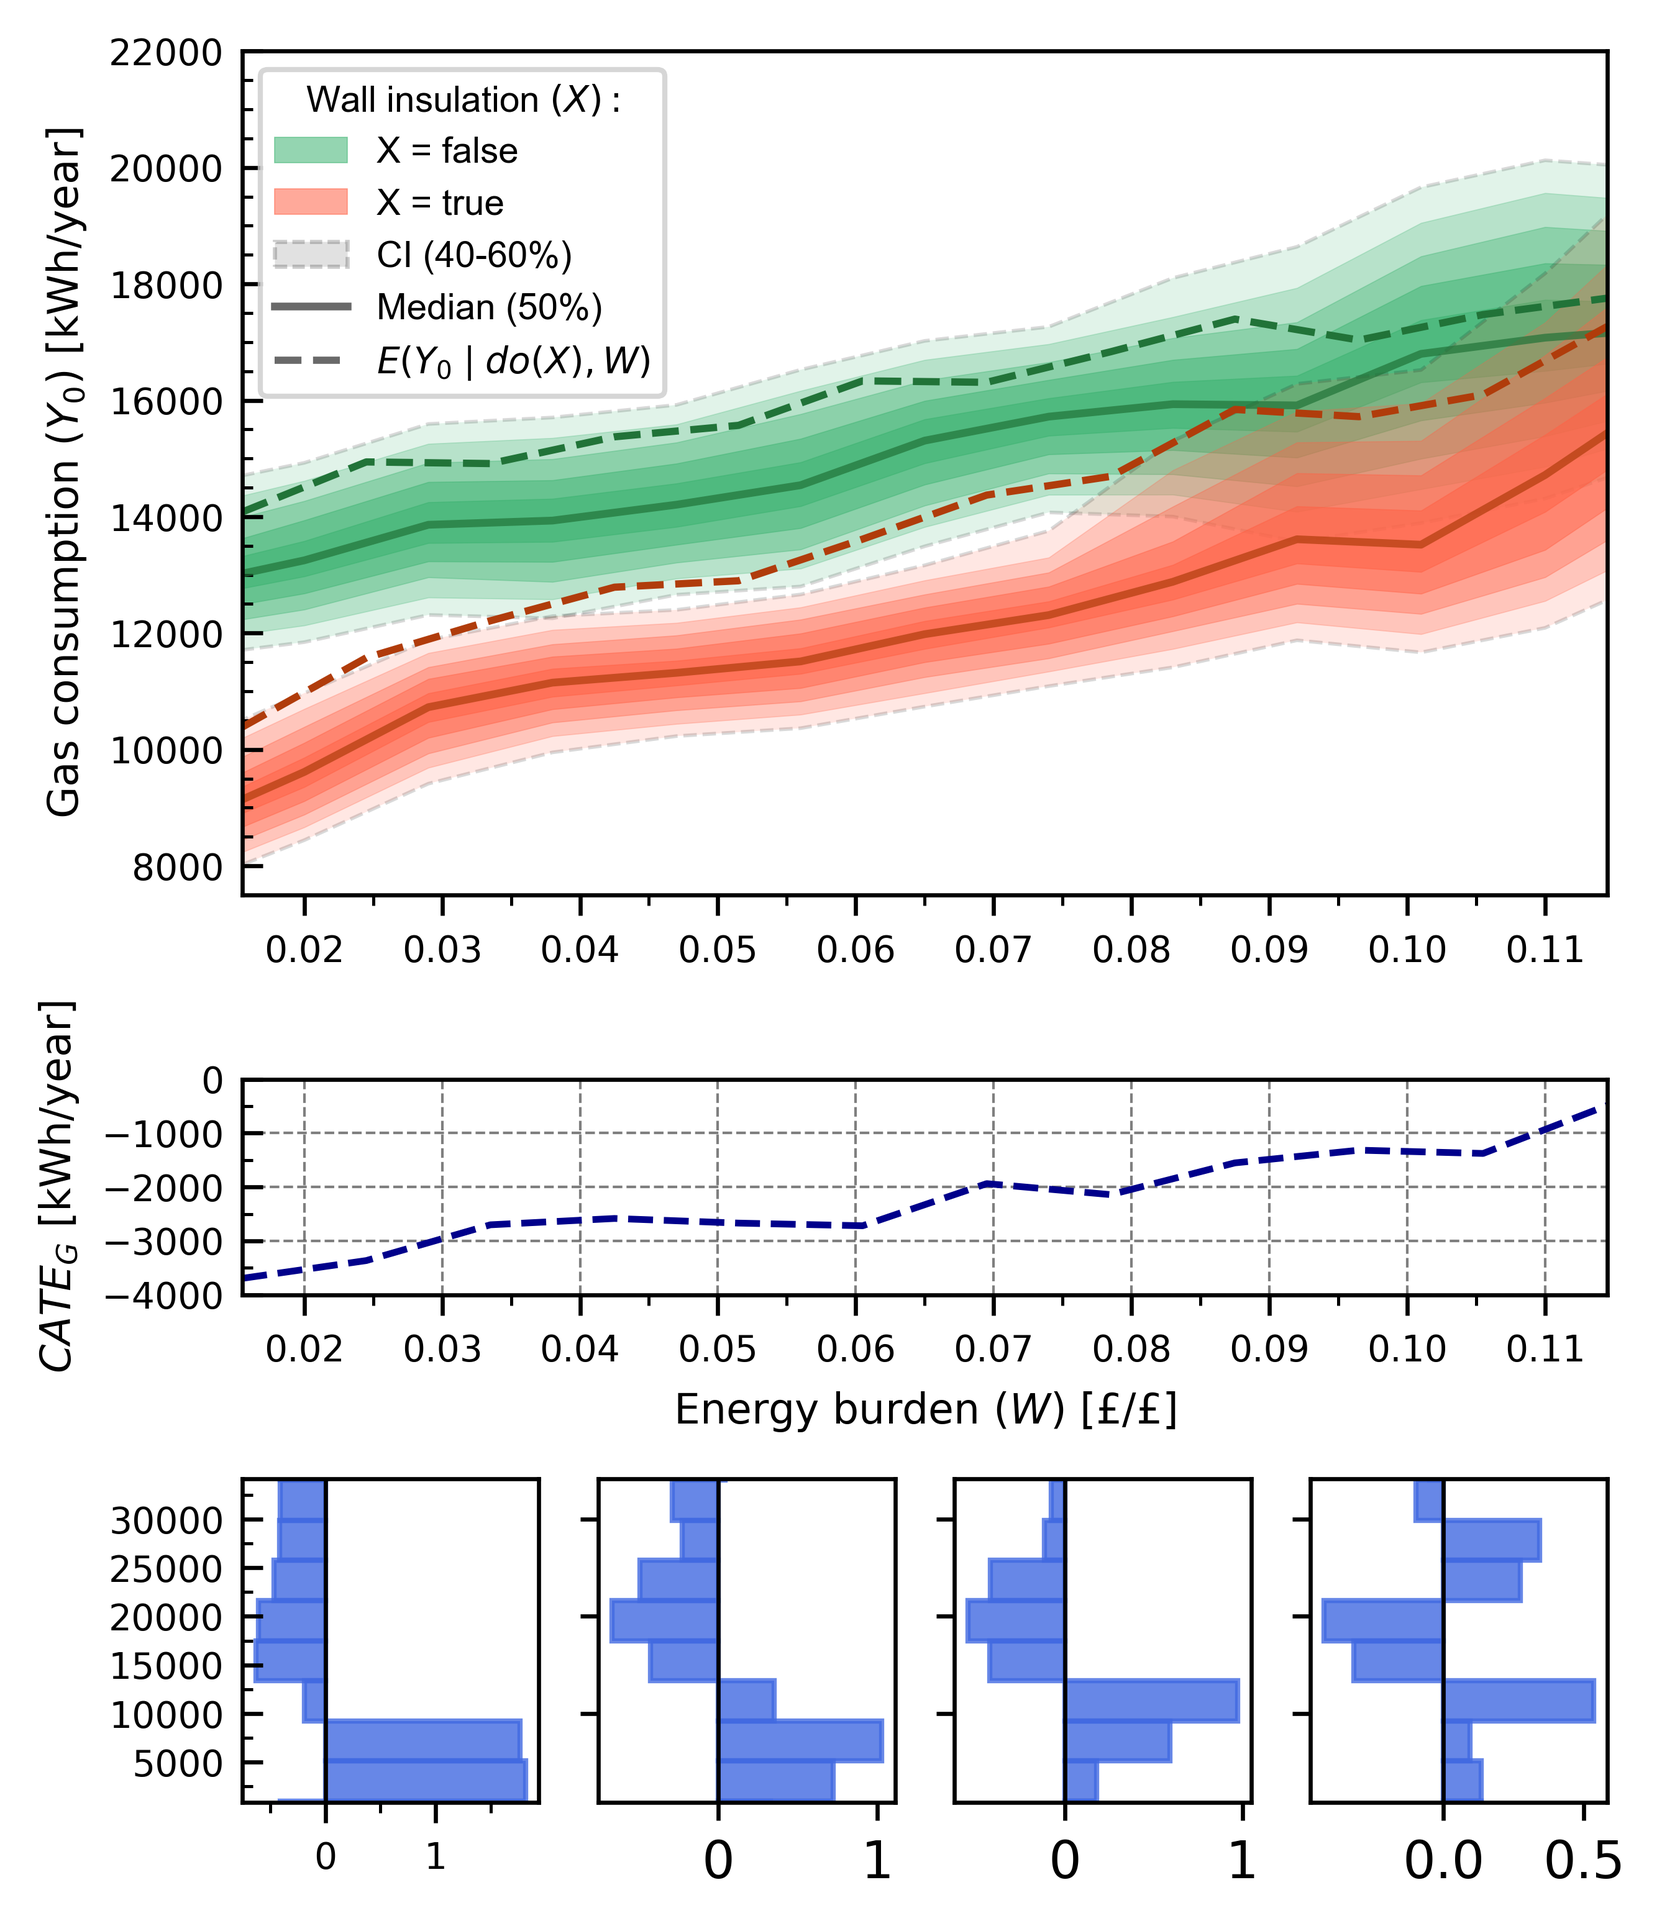
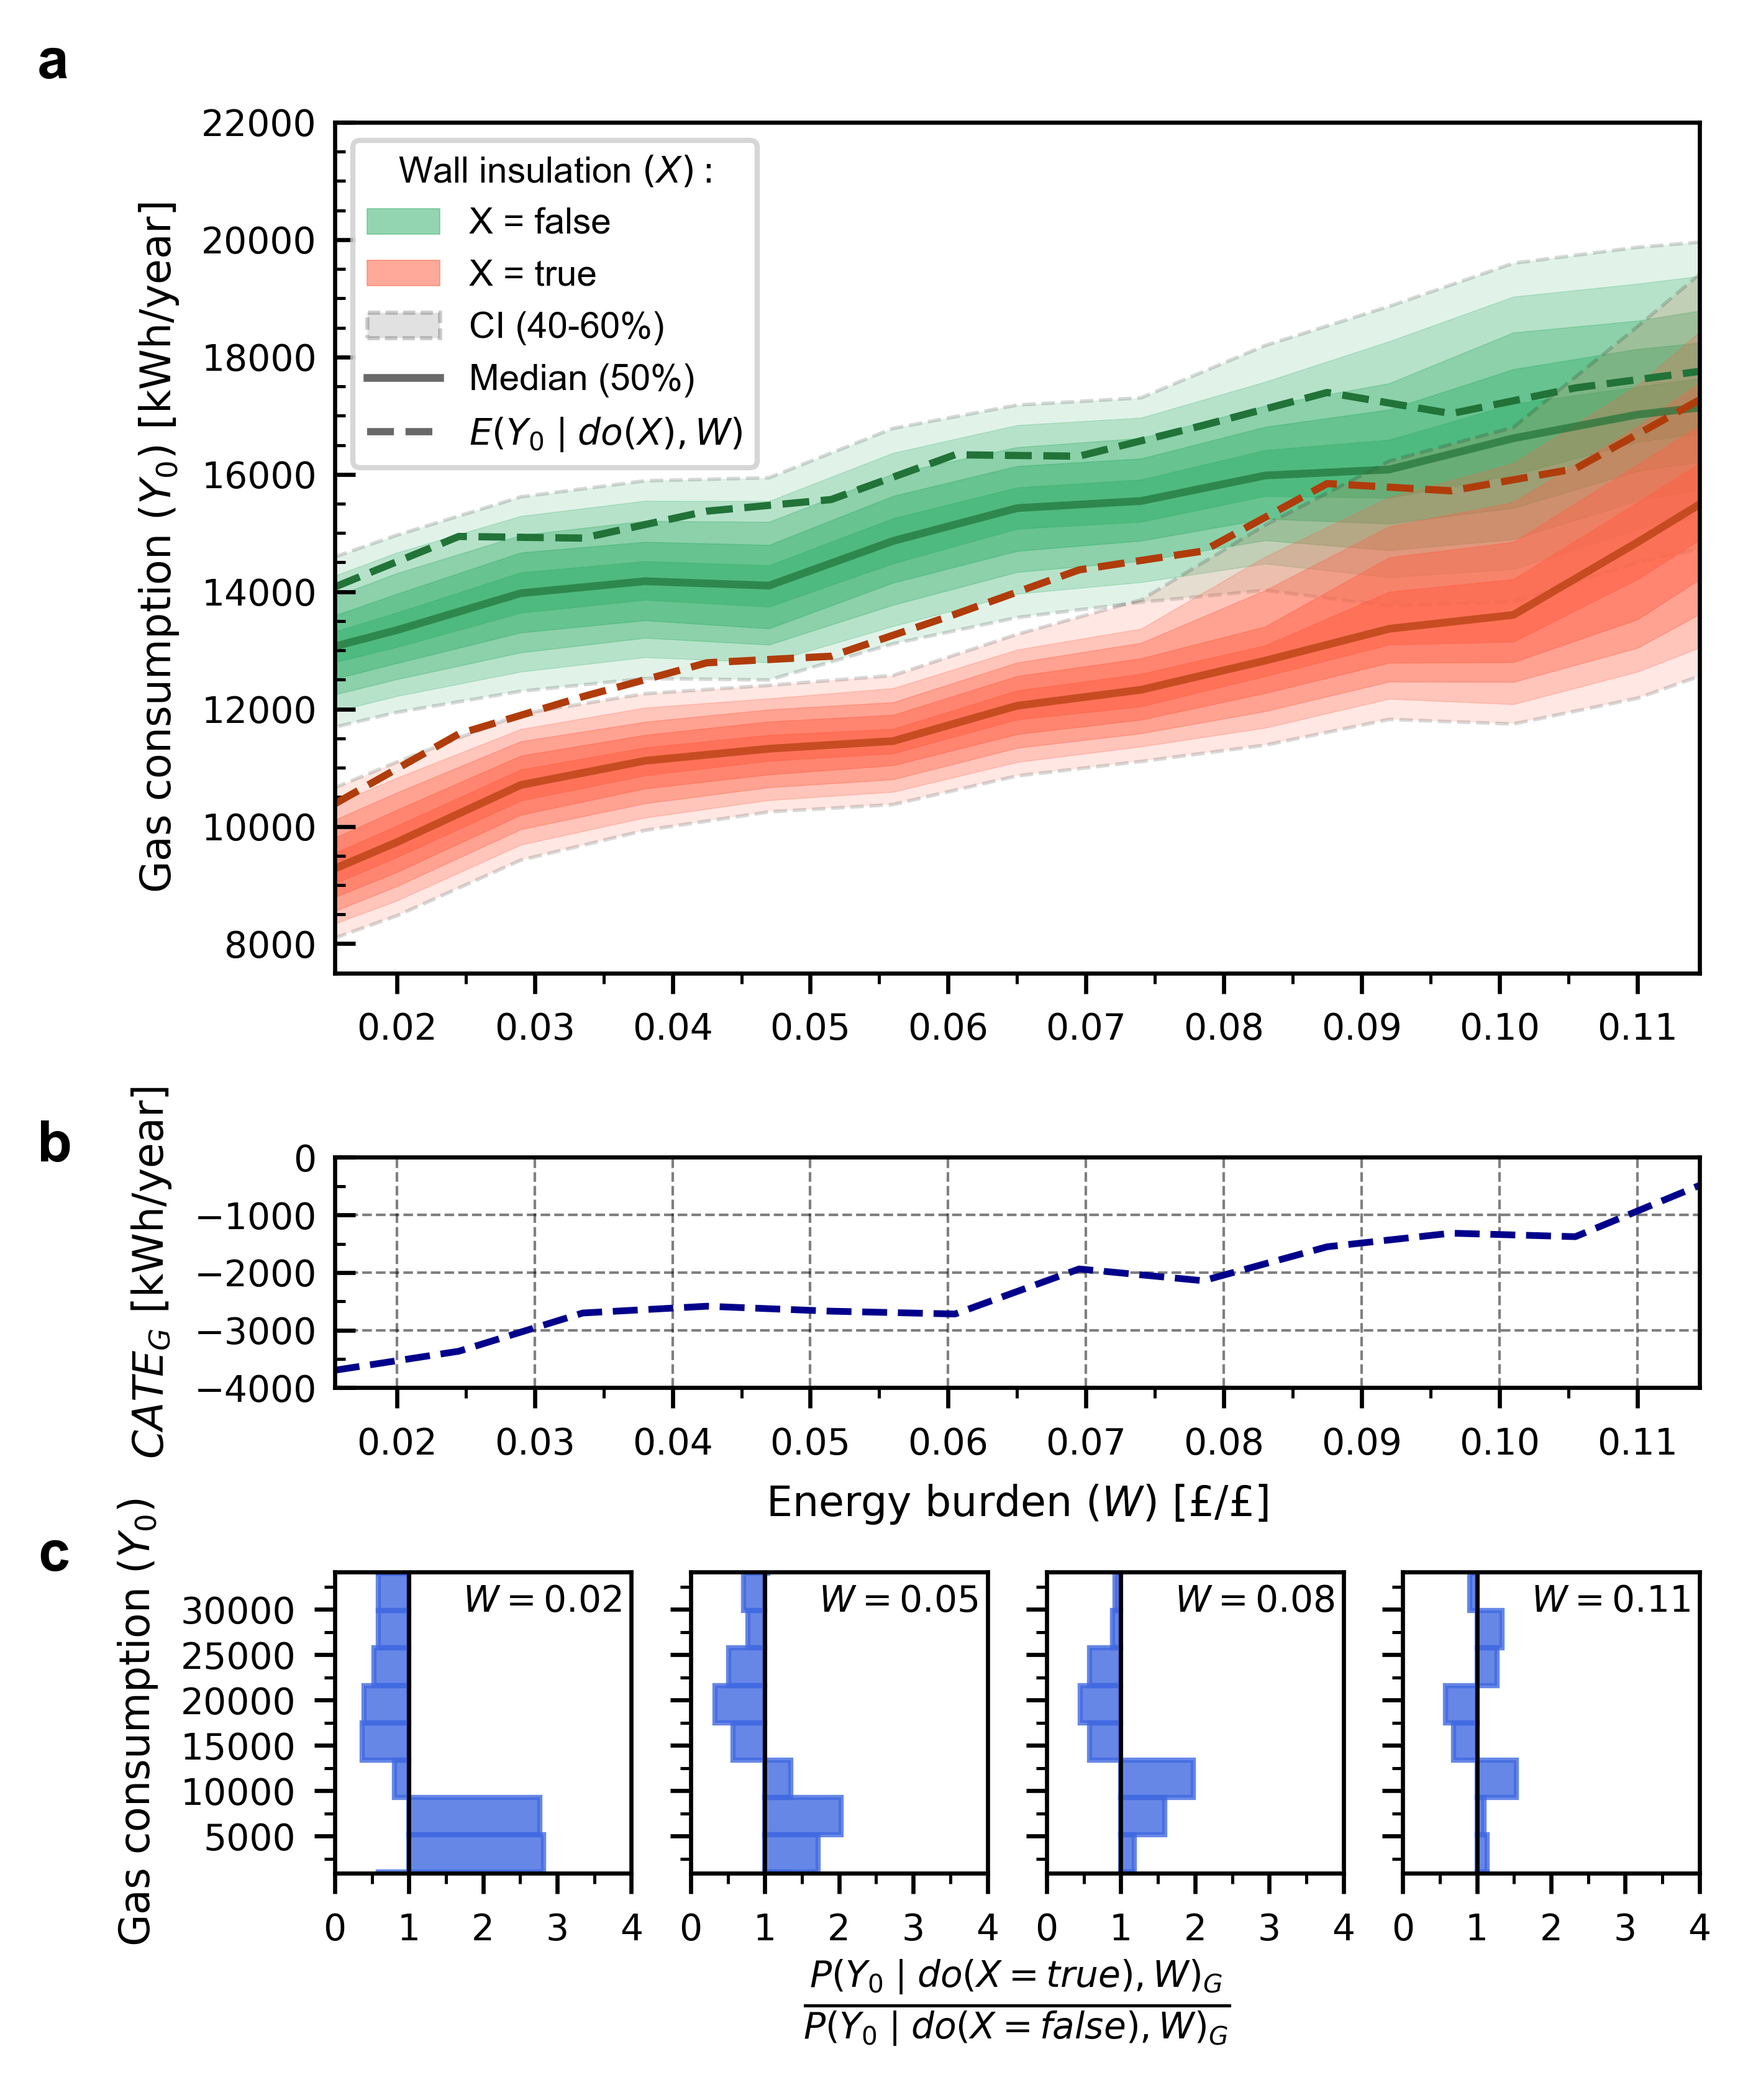
nc

Changed region(s): [[0.0, 0.5263, 0.9929, 0.9906], [0.031, 0.031, 0.9929, 0.4953], [0.0931, 0.0, 0.1241, 0.031]]

diff --git a/Plotter.py b/Plotter.py
@@ -129,7 +129,7 @@ class Plotter():
         samples_df, percentiles, means = self._generate_points_for_CATE(w_values=w_values, list_distribs_doX_given_W=list_distribs_doXx_1)
 
         fig = plt.figure(figsize=(width_cm/2.54, height_cm/2.54))
-        gs = gridspec.GridSpec(3, 4, height_ratios=[4.7, 1.2, 1.8], hspace=0.4)
+        gs = gridspec.GridSpec(3, 4, height_ratios=[4.8, 1.3, 1.7], hspace=0.4)
         ax1 = fig.add_subplot(gs[0, :])
         ax2 = fig.add_subplot(gs[1, :])
         ax_bottom_1 = fig.add_subplot(gs[2, 0])
@@ -258,43 +258,62 @@ class Plotter():
         ax_bottom_3.set_ylim(875, 35000 - 875)
         ax_bottom_4.set_ylim(875, 35000 - 875)
 
-        ax_bottom_1.xaxis.set_major_locator(plt.MultipleLocator(1))
-        ax_bottom_1.xaxis.set_minor_locator(plt.MultipleLocator(0.5))
-        ax_bottom_1.yaxis.set_major_locator(plt.MultipleLocator(5000))
-        ax_bottom_1.yaxis.set_minor_locator(plt.MultipleLocator(2500))
+        plots = [ax_bottom_1, ax_bottom_2, ax_bottom_3, ax_bottom_4]
+        for pl in plots:
+            pl.xaxis.set_major_locator(plt.MultipleLocator(1.))
+            pl.xaxis.set_minor_locator(plt.MultipleLocator(0.5))
+            pl.yaxis.set_major_locator(plt.MultipleLocator(5000))
+            pl.yaxis.set_minor_locator(plt.MultipleLocator(2500))
 
-        ax_bottom_1.tick_params(axis='x', which='major', direction='out', length=4, labelsize=7)
+            pl.tick_params(axis='y', which='major', direction='out', length=4, labelsize=7)
+            pl.tick_params(axis='y', which='minor', direction='out', length=2)
+            pl.tick_params(axis='x', which='major', direction='out', length=4, labelsize=7)
+            pl.tick_params(axis='x', which='minor', direction='out', length=2)
 
-        ax_bottom_1.tick_params(axis='y', which='major', direction='out', length=4, labelsize=7)
-        ax_bottom_1.tick_params(axis='y', which='minor', direction='in', length=0)
-        ax_bottom_2.tick_params(axis='y', which='major', direction='out', length=4, labelsize=7)
-        ax_bottom_2.tick_params(axis='y', which='minor', direction='in', length=0)
-        ax_bottom_3.tick_params(axis='y', which='major', direction='out', length=4, labelsize=7)
-        ax_bottom_3.tick_params(axis='y', which='minor', direction='out', length=0)
-        ax_bottom_4.tick_params(axis='y', which='major', direction='in', length=4, labelsize=7)
-        ax_bottom_4.tick_params(axis='y', which='minor', direction='out', length=0)
+            pl.set_xlim(-1, 2)
 
-        #ax_bottom_1.set_xticks([-1, 0., 1., 2.]) 
+            pl.set_xticks([-1., 0., 1., 2., 3.]) 
+            #pl.set_xticklabels(['0', '1', '2', '3'])
+            xticks = pl.get_xticks()
+            pl.set_xticklabels([str(int(tick + 1)) for tick in xticks])
 
+            if pl != ax_bottom_1: 
+                pl.set_yticklabels([])
+
+        #ax_bottom_1.set_xticks([1, 0., 1., 2.]) 
+        #ax_bottom_1..set_xticklabels([-1, 0., 1., 2.]) 
+        #ax2.set_xticks([0., 0.01, 0.02, 0.03, 0.04, 0.05, 0.06, 0.07, 0.08, 0.09, 0.10, 0.11]) 
+        #ax2.set_xticklabels(['0.00', '0.01', '0.02', '0.03', '0.04', '0.05', '0.06', '0.07', '0.08', '0.09', '0.10', '0.11']) 
+        '''
         # Set new x labels shifted by +1
         xticks = ax_bottom_1.get_yticks()
-        #ax_bottom_1.set_xticklabels([str(int(tick + 1)) for tick in xticks])
+        ax_bottom_1.set_xticklabels([str(int(tick + 1)) for tick in xticks])
         xticks = ax_bottom_2.get_yticks()
-        #ax_bottom_2.set_xticklabels([str(int(tick + 1)) for tick in xticks])
+        ax_bottom_2.set_xticklabels([str(int(tick + 1)) for tick in xticks])
         xticks = ax_bottom_3.get_yticks()
-        #ax_bottom_3.set_xticklabels([str(int(tick + 1)) for tick in xticks])
+        ax_bottom_3.set_xticklabels([str(int(tick + 1)) for tick in xticks])
         xticks = ax_bottom_4.get_yticks()
-        #ax_bottom_4.set_xticklabels([str(int(tick + 1)) for tick in xticks])
-
+        ax_bottom_4.set_xticklabels([str(int(tick + 1)) for tick in xticks])
+        
         ax_bottom_2.set_yticklabels([]) 
         ax_bottom_3.set_yticklabels([])
         ax_bottom_4.set_yticklabels([])
-
+        '''
         
+        ax_bottom_1.set_ylabel(r'Gas consumption $(Y_0)$', fontsize=8)
 
-
-
+        ax_bottom_1.text(2.3, -.43, r'$\frac{P(Y_0 \mid do(X=true), W)_{G}}{P(Y_0 \mid do(X=false), W)_{G}}$', transform=ax_bottom_1.transAxes, fontsize=10, va='center', ha='center')
+        
+        ax_bottom_1.text(0.7, 0.9, r'$W=0.02$', transform=ax_bottom_1.transAxes, fontsize=7, va='center', ha='center')
+        ax_bottom_2.text(0.7, 0.9, r'$W=0.05$', transform=ax_bottom_2.transAxes, fontsize=7, va='center', ha='center')
+        ax_bottom_3.text(0.7, 0.9, r'$W=0.08$', transform=ax_bottom_3.transAxes, fontsize=7, va='center', ha='center')
+        ax_bottom_4.text(0.7, 0.9, r'$W=0.11$', transform=ax_bottom_4.transAxes, fontsize=7, va='center', ha='center')
+        
+        #plt.tight_layout(rect=[0, 0.05, 1, 1])
         #---------------------------------------------------
+        ax1.text(-0.218, 1.1, 'a', transform=ax1.transAxes, fontsize=11, fontweight='bold', va='top', ha='left')
+        ax2.text(-0.218, 1.16, 'b', transform=ax2.transAxes, fontsize=11, fontweight='bold', va='top', ha='left')
+        ax_bottom_1.text(-1, 1.14, 'c', transform=ax_bottom_1.transAxes, fontsize=11, fontweight='bold', va='top', ha='left')
         
         w = str(width_cm).replace('.', '-')
         h = str(height_cm).replace('.', '-')
